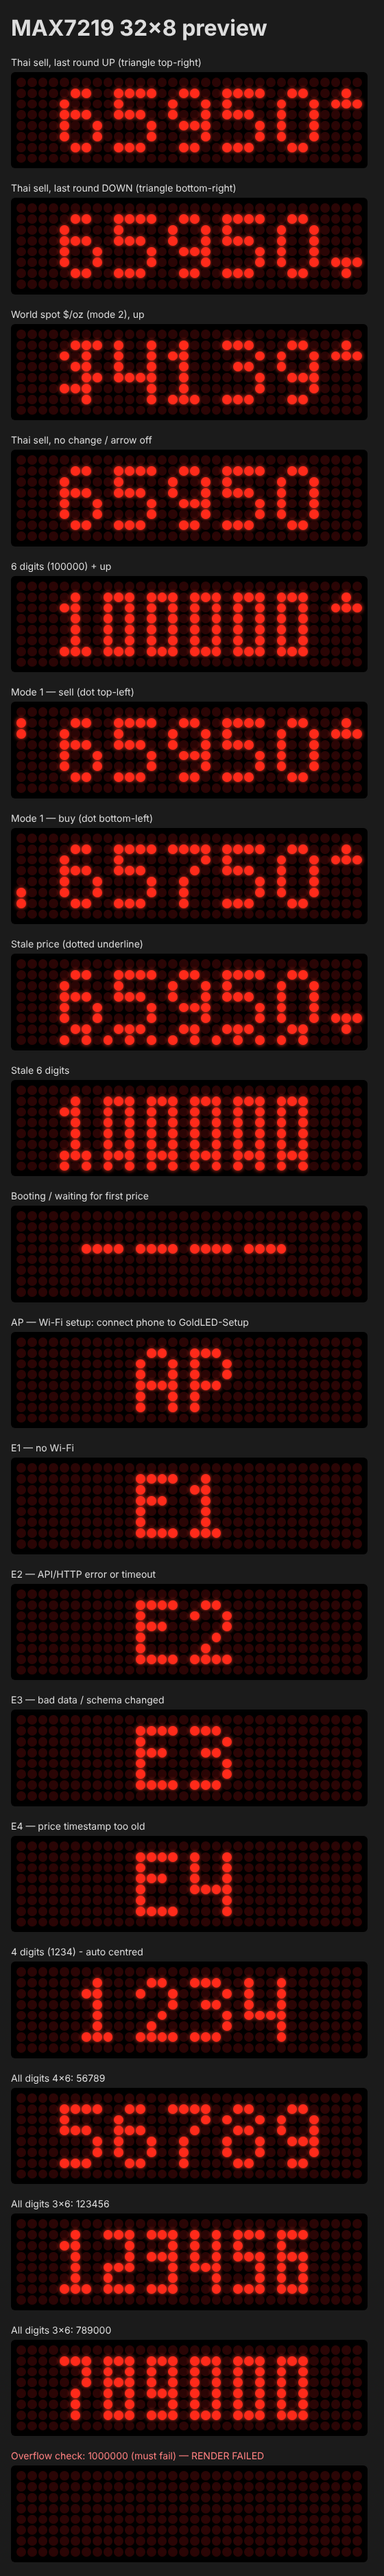
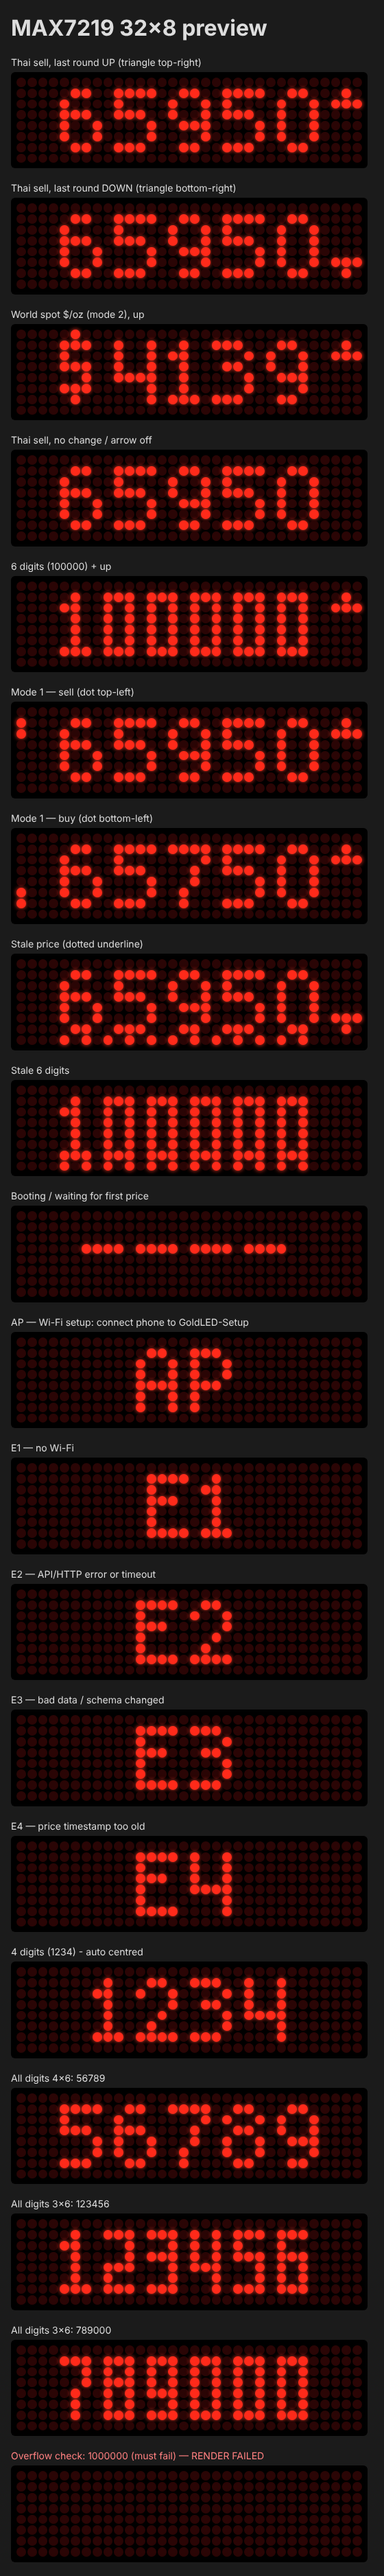
Improve font readability and the world price "$"
- Narrow 3 px '1' in the 4x6 font so spacing stays even; clearer '7'
- World price uses a tall 3x7 "$" with stems above/below, 2 px gap
- Arrow is skipped if it would touch very wide numbers
- 70 native tests; preview and font comparison images

Claude-Session: https://claude.ai/code/session_01XC6RimE5bS8YGQVn4zx9jL

diff --git a/test/test_display_layout/test_main.cpp b/test/test_display_layout/test_main.cpp
@@ -34,7 +34,7 @@ static std::string glyphArt(const Font& font, char c) {
     std::string s;
     if (!g) return s;
     for (int y = 0; y < font.height; ++y) {
-        for (int x = 0; x < font.width; ++x) s += font.pixel(*g, x, y) ? '#' : '.';
+        for (int x = 0; x < font.glyphWidth(*g); ++x) s += font.pixel(*g, x, y) ? '#' : '.';
         s += '\n';
     }
     return s;
@@ -53,13 +53,13 @@ static std::string frameArt(const Frame& f) {
 
 static const char* kExpected4x6[10] = {
     ".##.\n#..#\n#..#\n#..#\n#..#\n.##.\n",  // 0
-    ".#..\n##..\n.#..\n.#..\n.#..\n###.\n",  // 1
+    ".#.\n##.\n.#.\n.#.\n.#.\n###\n",        // 1 (narrow, 3 px)
     ".##.\n#..#\n...#\n..#.\n.#..\n####\n",  // 2
     "###.\n...#\n.##.\n...#\n...#\n###.\n",  // 3
     "#..#\n#..#\n#..#\n####\n...#\n...#\n",  // 4
     "####\n#...\n###.\n...#\n...#\n###.\n",  // 5
     ".##.\n#...\n###.\n#..#\n#..#\n.##.\n",  // 6
-    "####\n...#\n..#.\n.#..\n.#..\n.#..\n",  // 7
+    "####\n...#\n..#.\n..#.\n.#..\n.#..\n",  // 7
     ".##.\n#..#\n.##.\n#..#\n#..#\n.##.\n",  // 8
     ".##.\n#..#\n#..#\n.###\n...#\n.##.\n",  // 9
 };
@@ -100,7 +100,7 @@ void test_fonts_have_no_unused_bits() {
     for (const Font* f : fonts) {
         for (size_t i = 0; i < f->count; ++i)
             for (int y = 0; y < 6; ++y)
-                TEST_ASSERT_EQUAL_MESSAGE(0, f->glyphs[i].rows[y] >> f->width,
+                TEST_ASSERT_EQUAL_MESSAGE(0, f->glyphs[i].rows[y] >> f->glyphWidth(f->glyphs[i]),
                                           "glyph has bits outside its width");
     }
 }
@@ -114,6 +114,20 @@ void test_digits_are_distinct() {
 }
 
 // --------------------------------------------------------------- layout ----
+
+void test_narrow_one_keeps_spacing_even() {
+    // 71150: 7(4) 1(3) 1(3) 5(4) 0(4) + 4 gaps = 22 px, centred at x=5
+    Frame f;
+    RenderResult r = renderPrice(f, 71150);
+    TEST_ASSERT_TRUE(r.ok);
+    TEST_ASSERT_EQUAL(22, r.width);
+    TEST_ASSERT_EQUAL(5, r.x);
+    // every glyph is followed by exactly one empty column
+    const int gapCols[] = {9, 13, 17, 22};
+    for (int c : gapCols)
+        for (int y = 0; y < 8; ++y) TEST_ASSERT_FALSE(f.get(c, y));
+    TEST_ASSERT_EQUAL(0, f.clipped);
+}
 
 void test_five_digits_layout() {
     Frame f;
@@ -335,12 +349,23 @@ void test_arrow_fits_with_six_digits_and_markers() {
 
 void test_world_price_layout() {
     Frame f;
-    RenderResult r = renderWorldPrice(f, 4139, false, 1);
+    RenderResult r = renderWorldPrice(f, 4038, false, 1);
     TEST_ASSERT_TRUE(r.ok);
-    TEST_ASSERT_EQUAL(24, r.width);  // "$4139" = 5 chars in 4x6
+    TEST_ASSERT_EQUAL(24, r.width);  // $ (3) + gap 2 + "4038" (19)
     TEST_ASSERT_EQUAL(4, r.x);
-    TEST_ASSERT_TRUE(rowEmpty(f, 0));
+    TEST_ASSERT_EQUAL(0, f.clipped);
+    // tall "$" at columns 4-6, rows 0-6: stems above and below the S
+    const char* dollar[7] = {".#.", "###", "#..", "###", "..#", "###", ".#."};
+    for (int y = 0; y < 7; ++y)
+        for (int x = 0; x < 3; ++x) TEST_ASSERT_EQUAL(dollar[y][x] == '#', f.get(4 + x, y));
+    // only the $ stem uses row 0; row 7 stays free for the stale underline
+    TEST_ASSERT_EQUAL_UINT32(1u << 5, f.rows[0]);
     TEST_ASSERT_TRUE(rowEmpty(f, 7));
+    // gap of 2 empty columns between $ and digits
+    for (int y = 0; y < 8; ++y) TEST_ASSERT_FALSE(f.get(7, y) || f.get(8, y));
+    TEST_ASSERT_TRUE(f.get(30, 1));       // up arrow present
+    TEST_ASSERT_TRUE(f.get(27, 2));       // digits end at column 27 ('8')
+    for (int y = 0; y < 8; ++y) TEST_ASSERT_FALSE(f.get(28, y));
     Frame g;
     TEST_ASSERT_TRUE(renderWorldPrice(g, 10250).ok);  // "$10250" -> 3x6 font
     TEST_ASSERT_EQUAL(0, g.clipped);
@@ -349,7 +374,7 @@ void test_world_price_layout() {
 }
 
 void test_dollar_and_letters_exist() {
-    const char* chars = "$AP";
+    const char* chars = "AP";
     for (const char* c = chars; *c; ++c) {
         TEST_ASSERT_NOT_NULL(FONT_4X6.find(*c));
         TEST_ASSERT_NOT_NULL(FONT_3X6.find(*c));
@@ -364,6 +389,7 @@ int main(int, char**) {
     RUN_TEST(test_font_3x6_all_digits_match_design);
     RUN_TEST(test_fonts_have_no_unused_bits);
     RUN_TEST(test_digits_are_distinct);
+    RUN_TEST(test_narrow_one_keeps_spacing_even);
     RUN_TEST(test_five_digits_layout);
     RUN_TEST(test_five_digits_exact_pixels);
     RUN_TEST(test_six_digits_layout);

diff --git a/lib/GoldCore/src/Font.cpp b/lib/GoldCore/src/Font.cpp
@@ -3,45 +3,43 @@
 namespace gold {
 
 // ---------------------------------------------------------------- 4 x 6 ----
-// Each row: 4 bits, bit3 = left column.
+// Each row: 4 bits, bit3 = left column (3 bits for the narrow '1').
 static const Glyph kGlyphs4x6[] = {
-    {'0', {0b0110, 0b1001, 0b1001, 0b1001, 0b1001, 0b0110}},
-    {'1', {0b0100, 0b1100, 0b0100, 0b0100, 0b0100, 0b1110}},
-    {'2', {0b0110, 0b1001, 0b0001, 0b0010, 0b0100, 0b1111}},
-    {'3', {0b1110, 0b0001, 0b0110, 0b0001, 0b0001, 0b1110}},
-    {'4', {0b1001, 0b1001, 0b1001, 0b1111, 0b0001, 0b0001}},
-    {'5', {0b1111, 0b1000, 0b1110, 0b0001, 0b0001, 0b1110}},
-    {'6', {0b0110, 0b1000, 0b1110, 0b1001, 0b1001, 0b0110}},
-    {'7', {0b1111, 0b0001, 0b0010, 0b0100, 0b0100, 0b0100}},
-    {'8', {0b0110, 0b1001, 0b0110, 0b1001, 0b1001, 0b0110}},
-    {'9', {0b0110, 0b1001, 0b1001, 0b0111, 0b0001, 0b0110}},
-    {'-', {0b0000, 0b0000, 0b1111, 0b0000, 0b0000, 0b0000}},
-    {'E', {0b1111, 0b1000, 0b1110, 0b1000, 0b1000, 0b1111}},
-    {'A', {0b0110, 0b1001, 0b1001, 0b1111, 0b1001, 0b1001}},
-    {'P', {0b1110, 0b1001, 0b1001, 0b1110, 0b1000, 0b1000}},
-    {'$', {0b0111, 0b1010, 0b0110, 0b0011, 0b1110, 0b0010}},
-    {' ', {0b0000, 0b0000, 0b0000, 0b0000, 0b0000, 0b0000}},
+    {'0', 0, {0b0110, 0b1001, 0b1001, 0b1001, 0b1001, 0b0110}},
+    {'1', 3, {0b010, 0b110, 0b010, 0b010, 0b010, 0b111}},  // narrow
+    {'2', 0, {0b0110, 0b1001, 0b0001, 0b0010, 0b0100, 0b1111}},
+    {'3', 0, {0b1110, 0b0001, 0b0110, 0b0001, 0b0001, 0b1110}},
+    {'4', 0, {0b1001, 0b1001, 0b1001, 0b1111, 0b0001, 0b0001}},
+    {'5', 0, {0b1111, 0b1000, 0b1110, 0b0001, 0b0001, 0b1110}},
+    {'6', 0, {0b0110, 0b1000, 0b1110, 0b1001, 0b1001, 0b0110}},
+    {'7', 0, {0b1111, 0b0001, 0b0010, 0b0010, 0b0100, 0b0100}},
+    {'8', 0, {0b0110, 0b1001, 0b0110, 0b1001, 0b1001, 0b0110}},
+    {'9', 0, {0b0110, 0b1001, 0b1001, 0b0111, 0b0001, 0b0110}},
+    {'-', 0, {0b0000, 0b0000, 0b1111, 0b0000, 0b0000, 0b0000}},
+    {'E', 0, {0b1111, 0b1000, 0b1110, 0b1000, 0b1000, 0b1111}},
+    {'A', 0, {0b0110, 0b1001, 0b1001, 0b1111, 0b1001, 0b1001}},
+    {'P', 0, {0b1110, 0b1001, 0b1001, 0b1110, 0b1000, 0b1000}},
+    {' ', 0, {0b0000, 0b0000, 0b0000, 0b0000, 0b0000, 0b0000}},
 };
 
 // ---------------------------------------------------------------- 3 x 6 ----
 // Each row: 3 bits, bit2 = left column.
 static const Glyph kGlyphs3x6[] = {
-    {'0', {0b111, 0b101, 0b101, 0b101, 0b101, 0b111}},
-    {'1', {0b010, 0b110, 0b010, 0b010, 0b010, 0b111}},
-    {'2', {0b111, 0b001, 0b001, 0b111, 0b100, 0b111}},
-    {'3', {0b111, 0b001, 0b111, 0b001, 0b001, 0b111}},
-    {'4', {0b101, 0b101, 0b101, 0b111, 0b001, 0b001}},
-    {'5', {0b111, 0b100, 0b111, 0b001, 0b001, 0b111}},
-    {'6', {0b111, 0b100, 0b111, 0b101, 0b101, 0b111}},
-    {'7', {0b111, 0b001, 0b001, 0b010, 0b010, 0b010}},
-    {'8', {0b111, 0b101, 0b111, 0b101, 0b101, 0b111}},
-    {'9', {0b111, 0b101, 0b101, 0b111, 0b001, 0b111}},
-    {'-', {0b000, 0b000, 0b111, 0b000, 0b000, 0b000}},
-    {'E', {0b111, 0b100, 0b111, 0b100, 0b100, 0b111}},
-    {'A', {0b010, 0b101, 0b101, 0b111, 0b101, 0b101}},
-    {'P', {0b110, 0b101, 0b101, 0b110, 0b100, 0b100}},
-    {'$', {0b011, 0b110, 0b010, 0b011, 0b110, 0b010}},
-    {' ', {0b000, 0b000, 0b000, 0b000, 0b000, 0b000}},
+    {'0', 0, {0b111, 0b101, 0b101, 0b101, 0b101, 0b111}},
+    {'1', 0, {0b010, 0b110, 0b010, 0b010, 0b010, 0b111}},
+    {'2', 0, {0b111, 0b001, 0b001, 0b111, 0b100, 0b111}},
+    {'3', 0, {0b111, 0b001, 0b111, 0b001, 0b001, 0b111}},
+    {'4', 0, {0b101, 0b101, 0b101, 0b111, 0b001, 0b001}},
+    {'5', 0, {0b111, 0b100, 0b111, 0b001, 0b001, 0b111}},
+    {'6', 0, {0b111, 0b100, 0b111, 0b101, 0b101, 0b111}},
+    {'7', 0, {0b111, 0b001, 0b001, 0b010, 0b010, 0b010}},
+    {'8', 0, {0b111, 0b101, 0b111, 0b101, 0b101, 0b111}},
+    {'9', 0, {0b111, 0b101, 0b101, 0b111, 0b001, 0b111}},
+    {'-', 0, {0b000, 0b000, 0b111, 0b000, 0b000, 0b000}},
+    {'E', 0, {0b111, 0b100, 0b111, 0b100, 0b100, 0b111}},
+    {'A', 0, {0b010, 0b101, 0b101, 0b111, 0b101, 0b101}},
+    {'P', 0, {0b110, 0b101, 0b101, 0b110, 0b100, 0b100}},
+    {' ', 0, {0b000, 0b000, 0b000, 0b000, 0b000, 0b000}},
 };
 
 const Font FONT_4X6 = {4, 6, kGlyphs4x6, sizeof(kGlyphs4x6) / sizeof(kGlyphs4x6[0])};

diff --git a/lib/GoldCore/src/DisplayRenderer.cpp b/lib/GoldCore/src/DisplayRenderer.cpp
@@ -12,9 +12,13 @@ const Font* fontForLength(int length) {
 }
 
 int textWidth(const Font& font, const char* text) {
-    int n = (int)strlen(text);
-    if (n == 0) return 0;
-    return n * font.width + (n - 1) * kGlyphSpacing;
+    int w = 0;
+    int n = 0;
+    for (const char* p = text; *p; ++p, ++n) {
+        const Glyph* g = font.find(*p);
+        w += g ? font.glyphWidth(*g) : font.width;
+    }
+    return n == 0 ? 0 : w + (n - 1) * kGlyphSpacing;
 }
 
 bool drawText(Frame& frame, const Font& font, const char* text, int x, int y) {
@@ -23,16 +27,17 @@ bool drawText(Frame& frame, const Font& font, const char* text, int x, int y) {
     for (const char* p = text; *p; ++p) {
         const Glyph* g = font.find(*p);
         if (!g) return false;
+        const int gw = font.glyphWidth(*g);
         for (int gy = 0; gy < font.height; ++gy) {
-            for (int gx = 0; gx < font.width; ++gx) {
+            for (int gx = 0; gx < gw; ++gx) {
                 if (font.pixel(*g, gx, gy)) frame.set(cx + gx, y + gy, true);
             }
         }
         // Even blank glyph cells must fit inside the frame.
-        if (!Frame::inBounds(cx, y) || !Frame::inBounds(cx + font.width - 1, y + font.height - 1)) {
+        if (!Frame::inBounds(cx, y) || !Frame::inBounds(cx + gw - 1, y + font.height - 1)) {
             ++frame.clipped;
         }
-        cx += font.width + kGlyphSpacing;
+        cx += gw + kGlyphSpacing;
     }
     return frame.clipped == clippedBefore;
 }
@@ -104,15 +109,38 @@ RenderResult renderPrice(Frame& frame, int32_t price, PriceMarker marker, bool s
     return decorate(frame, renderCenteredText(frame, digits), marker, staleUnderline, trend);
 }
 
+// Dollar sign, 3 px wide and 7 px tall (rows 0..6): the stems poke out
+// above and below the S, which makes it read as "$" at a glance.
+static const char* const kDollar[7] = {".#.", "###", "#..", "###", "..#", "###", ".#."};
+static constexpr int kDollarWidth = 3;
+
 RenderResult renderWorldPrice(Frame& frame, int32_t usd, bool staleUnderline, int8_t trend) {
     frame.clear();
     RenderResult r = {false, 0, 0};
     if (usd < 0 || usd > 99999) return r;
-    char text[13];
-    text[0] = '$';
-    if (formatPrice(usd, text + 1, sizeof(text) - 1) == 0) return r;
-    return decorate(frame, renderCenteredText(frame, text), PriceMarker::None, staleUnderline,
-                    trend);
+    char digits[12];
+    if (formatPrice(usd, digits, sizeof(digits)) == 0) return r;
+
+    // "$" + gap 2 + digits in the 4x6 font; keep column 28 free for the arrow.
+    const Font* font = &FONT_4X6;
+    int gap = 2;
+    int block = kDollarWidth + gap + textWidth(*font, digits);
+    if (block > 26) {  // 5-digit world price: fall back to the narrow font
+        font = &FONT_3X6;
+        gap = 1;
+        block = kDollarWidth + gap + textWidth(*font, digits);
+    }
+    if (block > Frame::kWidth) return r;
+    r.x = (Frame::kWidth - block) / 2;
+    r.width = block;
+    for (int y = 0; y < 7; ++y)
+        for (int x = 0; x < kDollarWidth; ++x)
+            if (kDollar[y][x] == '#') frame.set(r.x + x, y);
+    if (!drawText(frame, *font, digits, r.x + kDollarWidth + gap, kGlyphTop)) return r;
+    r.ok = true;
+    // No arrow if it would touch the digits (only for very wide numbers).
+    const bool roomForArrow = r.x + r.width <= 28;
+    return decorate(frame, r, PriceMarker::None, staleUnderline, roomForArrow ? trend : 0);
 }
 
 }  // namespace gold

diff --git a/lib/GoldCore/src/Font.h b/lib/GoldCore/src/Font.h
@@ -3,6 +3,8 @@
 //   FONT_3X6 : digits are 3 px wide, 6 px tall (used for 6 characters)
 // Glyph rows are stored MSB-left: for a 4 px wide glyph, bit 3 is the
 // left-most column; for a 3 px wide glyph, bit 2 is the left-most column.
+// FONT_4X6 is slightly proportional: '1' is 3 px wide so the spacing after
+// it looks the same as after every other digit.
 #pragma once
 
 #include <stddef.h>
@@ -12,6 +14,7 @@ namespace gold {
 
 struct Glyph {
     char ch;
+    uint8_t width;  // 0 = the font's default width (narrow '1' uses 3)
     uint8_t rows[6];
 };
 
@@ -22,9 +25,11 @@ struct Font {
     size_t count;
 
     const Glyph* find(char c) const;
+    int glyphWidth(const Glyph& g) const { return g.width ? g.width : width; }
     bool pixel(const Glyph& g, int x, int y) const {
-        if (x < 0 || x >= width || y < 0 || y >= height) return false;
-        return (g.rows[y] >> (width - 1 - x)) & 1U;
+        const int w = glyphWidth(g);
+        if (x < 0 || x >= w || y < 0 || y >= height) return false;
+        return (g.rows[y] >> (w - 1 - x)) & 1U;
     }
 };
 

diff --git a/lib/GoldCore/src/DisplayRenderer.h b/lib/GoldCore/src/DisplayRenderer.h
@@ -1,7 +1,8 @@
 // Turns prices / status codes into a 32x8 Frame.
 //
 // Layout rules (see README):
-//   * 1..5 characters -> FONT_4X6, 1 px spacing. 5 digits = 24 px, margins 4/4.
+//   * 1..5 characters -> FONT_4X6, 1 px spacing. 5 digits = 24 px, margins 4/4
+//     (narrow '1' is 3 px, so prices with 1s are a bit narrower, still centred).
 //   * 6 characters    -> FONT_3X6, 1 px spacing. 6 digits = 23 px, margins 4/5.
 //   * Glyphs occupy rows 1..6, leaving row 0 and row 7 blank (1 px margin).
 //   * Horizontal start x = (32 - width) / 2 (rounded down).
@@ -13,7 +14,7 @@
 //   * Trend up    : small triangle, columns 29-31, rows 1-2 (top-right)
 //   * Trend down  : small triangle, columns 29-31, rows 5-6 (bottom-right)
 //     (direction is encoded by both shape and position)
-// World price is drawn as "$" + digits, e.g. "$4132".
+// World price is drawn as a tall "$" (rows 0-6) + digits, e.g. "$4132".
 #pragma once
 
 #include <stdint.h>

diff --git a/README.md b/README.md
@@ -111,6 +111,7 @@ curl -s https://www.thaigoldtoday.com/api/gold-price -o /tmp/g.json && tools/pre
 ## การแสดงผล
 
 ฟอนต์ bitmap ออกแบบเฉพาะ 32×8 ไม่มี comma, ตัวเลขอยู่แถว 1–6 (เว้นแถว 0 และ 7)
+เลข `1` แคบกว่าตัวอื่น (3 จุด) เพื่อให้ช่องไฟเท่ากันทุกตัว — ราคาที่มีเลข 1 จะแคบลงเล็กน้อยแต่ยังอยู่กลางจอ
 
 | ราคา | ฟอนต์ | ความกว้าง | ขอบซ้าย/ขวา |
 |---|---|---|---|
@@ -127,7 +128,7 @@ curl -s https://www.thaigoldtoday.com/api/gold-price -o /tmp/g.json && tools/pre
 | 0 | ราคาขายออกทองไทยอย่างเดียว |
 | 1 | สลับขายออก / รับซื้อ ทุก 5 วินาที — จุดมุมซ้ายบน = ขายออก, จุดมุมซ้ายล่าง = รับซื้อ |
 
-ราคาโลกขึ้นต้นด้วย `$` และมีแค่ 4 หลัก จึงแยกจากราคาไทยได้ทันที
+ราคาโลกขึ้นต้นด้วย `$` ตัวเล็กที่มีขีดตั้งโผล่บน-ล่าง (สูงกว่าตัวเลข 1 จุด) และมีแค่ 4 หลัก จึงแยกจากราคาไทยได้ทันที
 
 ### ลูกศรขึ้น/ลง (สามเหลี่ยมเล็กขวาสุด)
 
